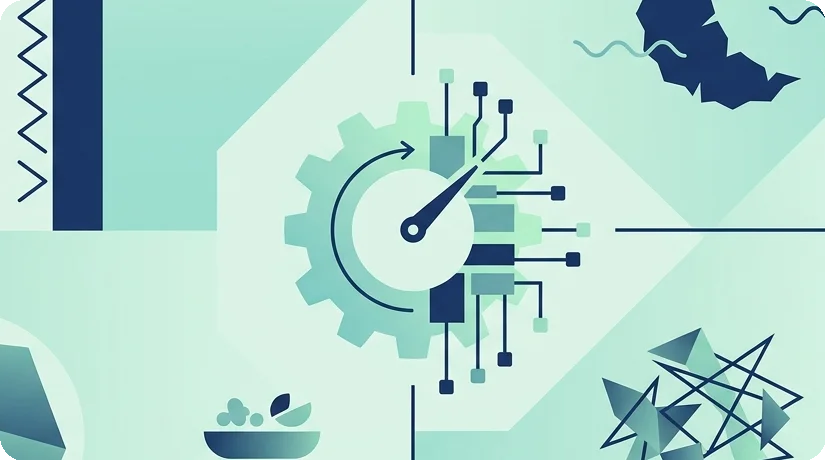
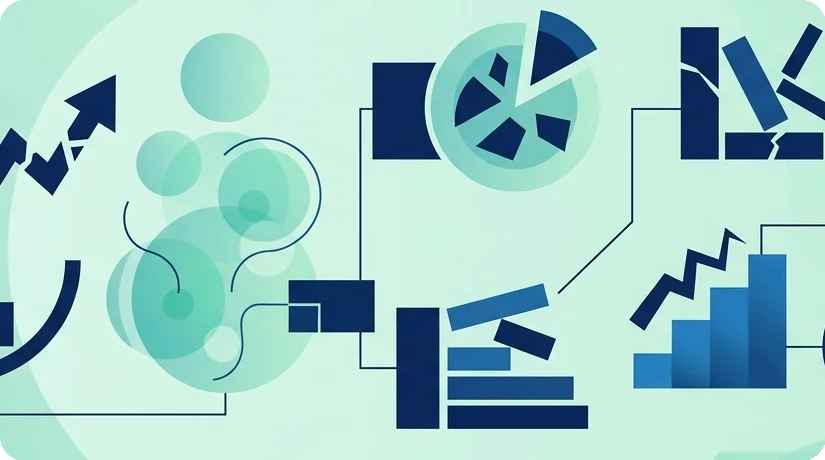
blog: add why-am-i-not-losing-weight-on-saxenda + micros: diets/calorie-deficit-strategies, exercises/effective-cardio-for-overall-fat-loss, myths/common-weight-loss-plateau-myths-debunked, meal-plans/high-protein-low-calorie-meal-plans

diff --git a/blog/why-am-i-not-losing-weight-on-saxenda.html b/blog/why-am-i-not-losing-weight-on-saxenda.html
@@ -8,9 +8,9 @@
   <meta charset="UTF-8">
   <meta name="viewport" content="width=device-width, initial-scale=1.0">
 
-  <title>Not Losing Weight on Saxenda? Causes &amp; Solutions — AI Weight Coach Blog</title>
-  <meta name="description" content="If you&#x27;re not losing weight on this medication, it could be due to factors like insufficient calorie deficit, inadequate lifestyle changes, or underlying conditions. Learn why and what to do.">
-  <meta name="keywords" content="Saxenda, weight loss plateau, not losing weight, weight management medication, calorie deficit, lifestyle changes, weight loss causes, AI Weight Coach">
+  <title>Why Am I Not Losing Weight on Saxenda? Key Reasons &amp; Tips — AI Weight Coach Blog</title>
+  <meta name="description" content="If you&#x27;re not losing weight on Saxenda, it could be due to diet, exercise, dosage, or underlying issues. Learn common reasons and what steps to take with your doctor.">
+  <meta name="keywords" content="Saxenda, weight loss, not losing weight, GLP-1, weight loss plateau, weight management, diet, exercise, caloric deficit, AI Weight Coach">
   <meta name="author" content="AI Weight Coach">
   <meta name="robots" content="index, follow">
   <meta name="language" content="English">
@@ -19,21 +19,21 @@
   <!-- Open Graph -->
   <meta property="og:type" content="article">
   <meta property="og:url" content="https://aiweightcoach.app/blog/why-am-i-not-losing-weight-on-saxenda.html">
-  <meta property="og:title" content="Not Losing Weight on Saxenda? Causes &amp; Solutions — AI Weight Coach Blog">
-  <meta property="og:description" content="If you&#x27;re not losing weight on this medication, it could be due to factors like insufficient calorie deficit, inadequate lifestyle changes, or underlying conditions. Learn why and what to do.">
+  <meta property="og:title" content="Why Am I Not Losing Weight on Saxenda? Key Reasons &amp; Tips — AI Weight Coach Blog">
+  <meta property="og:description" content="If you&#x27;re not losing weight on Saxenda, it could be due to diet, exercise, dosage, or underlying issues. Learn common reasons and what steps to take with your doctor.">
   <meta property="og:image" content="https://aiweightcoach.app/og-image.png">
   <meta property="og:image:width" content="1200">
   <meta property="og:image:height" content="630">
   <meta property="og:site_name" content="AI Weight Coach">
   <meta property="og:locale" content="en_US">
-  <meta property="article:published_time" content="2026-06-28T18:00:18.119340+00:00">
-  <meta property="article:modified_time" content="2026-06-28T18:00:18.119340+00:00">
+  <meta property="article:published_time" content="2026-07-02T12:00:19.560148+00:00">
+  <meta property="article:modified_time" content="2026-07-02T12:00:19.560148+00:00">
   <meta property="article:author" content="AI Weight Coach">
 
   <!-- Twitter -->
   <meta name="twitter:card" content="summary_large_image">
-  <meta name="twitter:title" content="Not Losing Weight on Saxenda? Causes &amp; Solutions — AI Weight Coach Blog">
-  <meta name="twitter:description" content="If you&#x27;re not losing weight on this medication, it could be due to factors like insufficient calorie deficit, inadequate lifestyle changes, or underlying conditions. Learn why and what to do.">
+  <meta name="twitter:title" content="Why Am I Not Losing Weight on Saxenda? Key Reasons &amp; Tips — AI Weight Coach Blog">
+  <meta name="twitter:description" content="If you&#x27;re not losing weight on Saxenda, it could be due to diet, exercise, dosage, or underlying issues. Learn common reasons and what steps to take with your doctor.">
   <meta name="twitter:image" content="https://aiweightcoach.app/og-image.png">
   <meta name="twitter:site" content="@aiweightcoach">
   <meta name="twitter:creator" content="@aiweightcoach">
@@ -48,7 +48,7 @@
   <link rel="dns-prefetch" href="https://www.googletagmanager.com">
   <link href="https://fonts.googleapis.com/css2?family=Inter:wght@300;400;500;600;700;800;900&display=swap" rel="stylesheet">
   <link rel="manifest" href="https://aiweightcoach.app/manifest.json">
-  <script type="application/ld+json">{"@context": "https://schema.org", "@type": "BlogPosting", "headline": "Why Am I Not Losing Weight on Saxenda?", "description": "If you're not losing weight on this medication, it could be due to factors like insufficient calorie deficit, inadequate lifestyle changes, or underlying conditions. Learn why and what to do.", "datePublished": "2026-06-28T18:00:18.119340+00:00", "dateModified": "2026-06-28T18:00:18.119340+00:00", "image": "https://aiweightcoach.app/blog/images/why-am-i-not-losing-weight-on-saxenda.webp", "author": {"@type": "Organization", "name": "AI Weight Coach"}, "publisher": {"@type": "Organization", "name": "AI Weight Coach", "logo": {"@type": "ImageObject", "url": "https://aiweightcoach.app/icon.png"}}, "mainEntityOfPage": {"@type": "WebPage", "@id": "https://aiweightcoach.app/blog/why-am-i-not-losing-weight-on-saxenda.html"}, "keywords": "Saxenda, weight loss plateau, not losing weight, weight management medication, calorie deficit, lifestyle changes, weight loss causes, AI Weight Coach"}</script>
+  <script type="application/ld+json">{"@context": "https://schema.org", "@type": "BlogPosting", "headline": "Why Am I Not Losing Weight on Saxenda?", "description": "If you're not losing weight on Saxenda, it could be due to diet, exercise, dosage, or underlying issues. Learn common reasons and what steps to take with your doctor.", "datePublished": "2026-07-02T12:00:19.560148+00:00", "dateModified": "2026-07-02T12:00:19.560148+00:00", "image": "https://aiweightcoach.app/blog/images/why-am-i-not-losing-weight-on-saxenda.webp", "author": {"@type": "Organization", "name": "AI Weight Coach"}, "publisher": {"@type": "Organization", "name": "AI Weight Coach", "logo": {"@type": "ImageObject", "url": "https://aiweightcoach.app/icon.png"}}, "mainEntityOfPage": {"@type": "WebPage", "@id": "https://aiweightcoach.app/blog/why-am-i-not-losing-weight-on-saxenda.html"}, "keywords": "Saxenda, weight loss, not losing weight, GLP-1, weight loss plateau, weight management, diet, exercise, caloric deficit, AI Weight Coach"}</script>
   <script type="application/ld+json">{"@context": "https://schema.org", "@type": "BreadcrumbList", "itemListElement": [{"@type": "ListItem", "position": 1, "name": "Home", "item": "https://aiweightcoach.app/"}, {"@type": "ListItem", "position": 2, "name": "Blog", "item": "https://aiweightcoach.app/blog/"}, {"@type": "ListItem", "position": 3, "name": "Why Am I Not Losing Weight on Saxenda?"}]}</script>
 
   <style>
@@ -290,77 +290,88 @@
     <span class="post-category">Practical Tips</span>
     <h1>Why Am I Not Losing Weight on Saxenda?</h1>
     <div class="post-meta">
-      <span>Jun 28, 2026</span>
-      <span>7 min read</span>
+      <span>Jul 02, 2026</span>
+      <span>6 min read</span>
     </div>
     <img class="post-hero" src="images/why-am-i-not-losing-weight-on-saxenda.webp" alt="Why Am I Not Losing Weight on Saxenda?">
     <div class="post-content">
-      <p>If you've been prescribed a weight management medication and find that your weight loss progress isn't meeting expectations, it can be frustrating. While medications like Saxenda are effective tools, they work best when integrated into a comprehensive weight loss strategy. Not seeing the scale move could be attributed to various factors, including your dietary habits, physical activity levels, adherence to the medication regimen, individual physiological responses, or even underlying health conditions. It's crucial to approach this situation systematically and, most importantly, in consultation with your healthcare provider.</p>
+      <p>While medications like Saxenda are powerful tools in weight management by helping reduce appetite and increase feelings of fullness, not losing weight can be frustrating and may indicate that other factors need attention. Effective weight loss, even with medication, still fundamentally requires a caloric deficit, and elements like diet, exercise, individual physiological responses, and lifestyle play critical roles. It's crucial to consult your healthcare provider to discuss your specific situation and explore potential adjustments to your weight loss strategy.</p>
 
-    <h2>How Does This Type of Medication Assist with Weight Loss?</h2>
-    <p>Medications like Saxenda are a type of GLP-1 receptor agonist, which means they mimic a natural hormone in your body called glucagon-like peptide-1. This hormone plays several roles in weight management:</p>
+    <h2>How Do GLP-1 Medications Like Saxenda Support Weight Loss?</h2>
+    <p>Liraglutide, the active ingredient in Saxenda, belongs to a class of medications known as GLP-1 receptor agonists. These medications work by mimicking a natural hormone in your body that regulates appetite and food intake. Specifically, GLP-1:</p>
     <ul>
-        <li><strong>Appetite Regulation:</strong> It helps you feel fuller sooner and for longer periods, reducing overall food intake.</li>
-        <li><strong>Delayed Gastric Emptying:</strong> It slows down the movement of food from your stomach to your intestines, contributing to increased satiety.</li>
-        <li><strong>Blood Sugar Control:</strong> While not its primary function for weight loss, it can also help regulate blood sugar levels, which can indirectly support weight management efforts.</li>
+        <li><strong>Increases Satiety:</strong> It helps you feel fuller faster and for longer after eating, leading to reduced food intake.</li>
+        <li><strong>Slows Gastric Emptying:</strong> Food stays in your stomach for a longer period, contributing to prolonged feelings of fullness.</li>
+        <li><strong>Reduces Cravings:</strong> Many individuals report a decrease in food cravings, particularly for high-fat or sugary foods.</li>
     </ul>
-    <p>The goal of such medication is to act as an adjunct to a reduced-calorie diet and increased physical activity, not as a standalone solution. It helps to manage hunger and cravings, making it easier for individuals to adhere to lifestyle changes.</p>
+    <p>While these mechanisms significantly aid in creating a caloric deficit, they don't eliminate the need for conscious dietary choices and an active lifestyle. The medication is a valuable facilitator, but sustained weight loss often hinges on comprehensive lifestyle changes.</p>
 
-    <h2>What Are Common Reasons for a Weight Loss Plateau While Taking Medication?</h2>
-    <p>Even with the support of medication, weight loss isn't always linear. Several factors can contribute to a stall or lack of progress:</p>
+    <h2>What Are Common Reasons for Not Losing Weight on a GLP-1 Medication?</h2>
+    <p>If you're using Saxenda and not seeing the desired weight loss, it's important to consider a range of potential factors. Weight management is complex, and multiple elements can influence your progress.</p>
 
-    <h3>1. Insufficient Calorie Deficit</h3>
-    <p>Despite the medication helping to reduce appetite, it's still possible to consume more calories than your body needs to lose weight. True weight loss requires <a href="../diets/calorie-deficit-strategies.html">achieving and maintaining a consistent calorie deficit</a>, which is fundamental as it forms the bedrock of any successful weight loss journey. Even small, unnoticed indulgences or portion creep can add up, neutralizing the appetite-suppressing effects of the medication.</p>
-
-    <h3>2. Inadequate Lifestyle Changes</h3>
-    <p>Medication is a tool, but it doesn't replace the fundamental need for lifestyle adjustments. If dietary habits haven't sufficiently changed (e.g., still consuming high-calorie, low-nutrient foods) or physical activity levels remain low, weight loss may be slow or nonexistent. It's important to adopt a balanced, nutrient-dense eating pattern and incorporate regular exercise. Integrating <a href="../workouts/strength-training-workouts.html">strength training workouts</a> is crucial, as increased muscle mass boosts your resting metabolism, making it easier to burn calories and overcome plateaus.</p>
-
-    <h3>3. Medication Adherence and Dosage</h3>
-    <p>For the medication to be effective, it must be taken consistently and as prescribed by your doctor. Missing doses or not following the recommended titration schedule can impact its efficacy. Furthermore, your healthcare provider will guide you on the appropriate dosage, and it's essential to communicate any challenges you face in adhering to the regimen.</p>
-
-    <h3>4. Individual Physiological Response</h3>
-    <p>Everyone's body responds differently to medications. Some individuals may experience more significant appetite suppression, while others may not respond as robustly. Genetic factors, metabolism, and other biological elements can influence how effectively the medication works for you.</p>
-
-    <h3>5. Underlying Health Conditions or Medications</h3>
-    <p>Certain medical conditions, such as an underactive thyroid (hypothyroidism), polycystic ovary syndrome (PCOS), or sleep apnea, can make weight loss challenging. Additionally, some other medications (e.g., certain antidepressants, steroids) can promote weight gain or hinder weight loss efforts. Always ensure your healthcare provider is aware of your full medical history and all medications you are taking.</p>
-
-    <h3>6. Stress, Sleep, and Hydration</h3>
-    <p>These often-overlooked factors play a critical role in weight management. Chronic stress can elevate cortisol levels, which can promote fat storage, especially around the abdomen. Poor sleep disrupts hormones that regulate hunger and satiety, leading to increased cravings. Dehydration can sometimes be mistaken for hunger, leading to unnecessary calorie intake.</p>
-
-    <h3>7. Weight Loss Plateaus</h3>
-    <p>As you lose weight, your body's energy needs decrease. <a href="../conditions/metabolic-adaptation.html">Understanding metabolic adaptation</a> can shed light on why weight loss might slow down or stop, as your body adjusts its energy expenditure in response to prolonged calorie restriction. What once was a sufficient calorie deficit might no longer be. Plateaus are a normal part of the weight loss journey and often require adjustments to your diet and exercise plan. <a href="../myths/common-weight-loss-plateau-myths-debunked.html">It's important to debunk common weight loss plateau myths</a> to avoid frustration and ensure you're employing effective, evidence-based strategies to restart your progress.</p>
-
-    <h2>How Can AI Weight Coach Support My Journey?</h2>
-    <p>To address many of these common challenges, a structured support system can be incredibly valuable. This is where tools like AI Weight Coach can come in handy. By using AI Weight Coach, you can:</p>
+    <h3>Is Your Calorie Intake Still Too High?</h3>
+    <p>Even with reduced appetite, it's possible to consume more calories than your body needs to lose weight. Foods high in unhealthy fats, refined sugars, or large portion sizes can quickly add up, overriding the medication's effects. Saxenda helps manage hunger, but it doesn't prevent you from overeating if you're not mindful of your food choices. It’s essential to focus on nutrient-dense, whole foods and understand <a href="../diets/calorie-deficit-strategies.html">Calorie Deficit Strategies</a> to maintain an appropriate caloric deficit for your body.</p>
     <ul>
-        <li><strong>Track Your Intake:</strong> Accurately log your food and drink, helping you identify if you are consistently achieving a calorie deficit. This insight is crucial, especially when medication is assisting with appetite.</li>
-        <li><strong>Monitor Activity:</strong> Keep a record of your physical activity to ensure you're burning enough calories and staying active.</li>
-        <li><strong>Understand Nutrition:</strong> Gain insights into your macro and micronutrient intake, helping you make healthier food choices that support satiety and overall well-being.</li>
-        <li><strong>Identify Patterns:</strong> AI Weight Coach can help you spot trends in your eating habits, exercise, and even how these relate to your energy levels or mood, allowing for informed adjustments.</li>
+        <li><strong>Mindful Eating:</strong> Pay attention to hunger and fullness cues, eating slowly and savoring your meals.</li>
+        <li><strong>Portion Control:</strong> Even healthy foods need to be consumed in appropriate amounts.</li>
+        <li><strong>Food Choices:</strong> Prioritize lean protein, fiber-rich vegetables, fruits, and whole grains. Exploring structured options like <a href="../meal-plans/high-protein-low-calorie-meal-plans.html">High-Protein Low-Calorie Meal Plans</a> can further support your goals.</li>
     </ul>
-    <p>Combining the appetite-regulating effects of medication with the precise tracking and guidance offered by AI Weight Coach can create a powerful synergy for more effective and sustainable weight loss.</p>
 
-    <h2>When Should I Consult My Healthcare Provider About My Weight Loss Progress?</h2>
-    <p>If you are not losing weight as expected while on a weight management medication, or if you're experiencing a prolonged plateau, it's always best to discuss this with your healthcare provider. They can:</p>
+    <h3>Are You Getting Enough Physical Activity?</h3>
+    <p>Exercise is a crucial component of any successful weight loss strategy. While medication can help with appetite, physical activity burns calories, builds muscle mass (which boosts metabolism), and improves overall health. If your physical activity level is low, you might not be burning enough calories to achieve the necessary deficit for weight loss.</p>
     <ul>
-        <li><strong>Review Your Medication Adherence:</strong> Confirm you are taking the medication correctly and at the appropriate dosage.</li>
-        <li><strong>Assess Lifestyle Factors:</strong> Discuss your current diet, exercise routine, sleep habits, and stress levels to identify areas for improvement.</li>
-        <li><strong>Check for Underlying Issues:</strong> Rule out any medical conditions or other medications that might be hindering your progress.</li>
-        <li><strong>Adjust Treatment Plan:</strong> They may recommend adjustments to your lifestyle strategy, consider alternative approaches, or explore other treatment options if appropriate.</li>
-        <li><strong>Set Realistic Expectations:</strong> Ensure that your weight loss goals are healthy and achievable, especially in the context of your overall health.</li>
+        <li><strong>Aerobic Exercise:</strong> Aim for at least 150 minutes of moderate-intensity activity per week, incorporating <a href="../exercises/effective-cardio-for-overall-fat-loss.html">Effective Cardio for Overall Fat Loss</a> (e.g., brisk walking, swimming, cycling).</li>
+        <li><strong>Strength Training:</strong> Incorporate muscle-building exercises 2-3 times per week to preserve and increase lean muscle mass.</li>
+        <li><strong>Non-Exercise Activity Thermogenesis (NEAT):</strong> Increase daily movement, like taking the stairs or parking further away.</li>
     </ul>
-    <p>Remember, weight management is a complex, personal journey. Medications like Saxenda are valuable tools, but they are most effective when part of a holistic plan that includes diet, exercise, and continuous medical guidance.</p>
 
-    <p><em>Disclaimer: This article is for informational purposes only and does not constitute medical advice. Always consult with a qualified healthcare professional before making any decisions related to your health or treatment plan.</em></p>
+    <h3>Is Your Dosage Optimal and Your Body Responding As Expected?</h3>
+    <p>Individuals respond differently to medications. While many people experience significant appetite suppression and weight loss, some may have a less pronounced response. It's possible that your body requires a different approach, or you may not yet be at the therapeutic dose that offers optimal effects. Dosage adjustments should only be made by your prescribing healthcare provider.</p>
+
+    <h3>Could Underlying Medical Conditions Be Playing a Role?</h3>
+    <p>Certain medical conditions can make weight loss more challenging, even with medication. These include:</p>
+    <ul>
+        <li><strong>Thyroid Disorders:</strong> An underactive thyroid (hypothyroidism) can slow metabolism.</li>
+        <li><strong>Polycystic Ovary Syndrome (PCOS):</strong> Can affect hormones and insulin resistance, making weight loss difficult.</li>
+        <li><strong>Other Medications:</strong> Some medications for conditions like depression, anxiety, or certain chronic illnesses can lead to weight gain or hinder weight loss.</li>
+    </ul>
+    <p>Discuss any known or suspected medical conditions and all other medications you are taking with your doctor.</p>
+
+    <h3>How Are Your Lifestyle Factors Like Sleep and Stress?</h3>
+    <p>Poor sleep and chronic stress can significantly impact your weight loss efforts. Lack of sleep disrupts hunger-regulating hormones (ghrelin and leptin), leading to increased appetite and cravings. Stress elevates cortisol levels, which can promote fat storage, especially around the abdomen, and may lead to emotional eating.</p>
+    <ul>
+        <li><strong>Prioritize Sleep:</strong> Aim for 7-9 hours of quality sleep per night.</li>
+        <li><strong>Manage Stress:</strong> Practice relaxation techniques such as meditation, deep breathing, yoga, or spending time in nature.</li>
+    </ul>
+
+    <h3>Are You Experiencing a Weight Loss Plateau?</h3>
+    <p>It's common to experience plateaus during a weight loss journey, and <a href="../myths/common-weight-loss-plateau-myths-debunked.html">understanding common weight loss plateau myths</a> can help you navigate this challenge. As you lose weight, your body's metabolic rate can decrease because you weigh less, requiring fewer calories to maintain your new weight. What worked initially might need adjustment. Your body is incredibly adaptive, and sometimes a change in strategy is necessary to kickstart further progress.</p>
+
+    <h3>Are You Taking the Medication Correctly and Consistently?</h3>
+    <p>Proper adherence to your medication regimen is vital for its effectiveness. Ensure you are taking Saxenda exactly as prescribed by your healthcare provider, including the correct dose and administration technique. Missing doses or not following instructions can reduce its impact.</p>
+
+    <h2>What Steps Can You Take If Weight Loss Stalls on Saxenda?</h2>
+    <p>If you're not losing weight on Saxenda, don't get discouraged. There are actionable steps you can take:</p>
+    <ol>
+        <li><strong>Consult Your Healthcare Provider:</strong> This is the most important first step. Your doctor can assess your dosage, rule out underlying medical conditions, review your overall health, and offer personalized advice. They might adjust your treatment plan or recommend further investigations.</li>
+        <li><strong>Re-evaluate Your Dietary Habits:</strong> Even with reduced hunger, scrutinize your food choices. Are you consuming hidden calories from drinks, sauces, or snacks? Focus on whole, unprocessed foods. Tools like AI Weight Coach can help you accurately track your caloric and macronutrient intake, providing clarity on where adjustments might be needed.</li>
+        <li><strong>Increase and Diversify Physical Activity:</strong> If you're not active, start slowly and gradually increase your exercise. If you're already active, consider intensifying your workouts, trying new activities, or incorporating more strength training to boost your metabolism.</li>
+        <li><strong>Optimize Sleep and Stress Management:</strong> Implement strategies to improve sleep hygiene and reduce stress levels. These lifestyle changes can have a profound impact on your body's ability to lose weight.</li>
+        <li><strong>Practice Patience and Consistency:</strong> Weight loss is rarely a linear process. Be patient with yourself and consistent with your efforts. Small, sustainable changes over time yield the best results.</li>
+        <li><strong>Leverage Support Tools:</strong> Utilize apps like AI Weight Coach to help you set realistic goals, track progress, and make informed decisions about your nutrition and activity. Consistent data can reveal patterns you might otherwise miss.</li>
+    </ol>
+
+    <h2>Disclaimer</h2>
+    <p>The information provided in this blog post is for educational and informational purposes only, and does not constitute medical advice. It is essential to consult with a qualified healthcare professional before making any decisions related to your health or treatment plan, especially when considering or using prescription medications for weight loss.</p>
     </div>
     
     <div class="linked-micros">
       <h3>Explore Related Topics</h3>
       <div class="pills-grid">
       <a href="../diets/calorie-deficit-strategies.html" class="micro-pill">Calorie Deficit Strategies</a>
-      <a href="../workouts/strength-training-workouts.html" class="micro-pill">Strength Training Workouts</a>
-      <a href="../conditions/metabolic-adaptation.html" class="micro-pill">Metabolic Adaptation</a>
+      <a href="../exercises/effective-cardio-for-overall-fat-loss.html" class="micro-pill">Effective Cardio for Overall Fat Loss</a>
       <a href="../myths/common-weight-loss-plateau-myths-debunked.html" class="micro-pill">Common Weight Loss Plateau Myths Debunked</a>
+      <a href="../meal-plans/high-protein-low-calorie-meal-plans.html" class="micro-pill">High-Protein Low-Calorie Meal Plans</a>
       </div>
     </div>
   </article>

diff --git a/blog/index.html b/blog/index.html
@@ -292,6 +292,15 @@
   <div class="container">
     <div class="blog-grid" id="blog-grid">
       
+      <a href="why-am-i-not-losing-weight-on-saxenda.html" class="blog-card" data-category="practical_tips" style="text-decoration:none;color:inherit;">
+        <span class="category-tag">Practical Tips</span>
+        <h3>Why Am I Not Losing Weight on Saxenda?</h3>
+        <p class="excerpt">Not losing weight on Saxenda can stem from insufficient caloric deficit, inadequate physical activity, individual response, or underlying health issues. A holistic approach with medical guidance is key.</p>
+        <div class="meta">
+          <span>Jul 02, 2026</span>
+          <span>6 min read</span>
+        </div>
+      </a>
       <a href="does-stress-cause-weight-gain-in-stomach.html" class="blog-card" data-category="behavior_psychology" style="text-decoration:none;color:inherit;">
         <span class="category-tag">Behavior Psychology</span>
         <h3>Does Stress Cause Weight Gain in Stomach?</h3>
